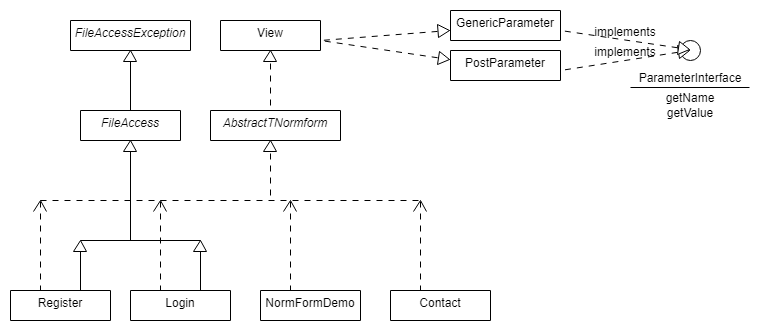
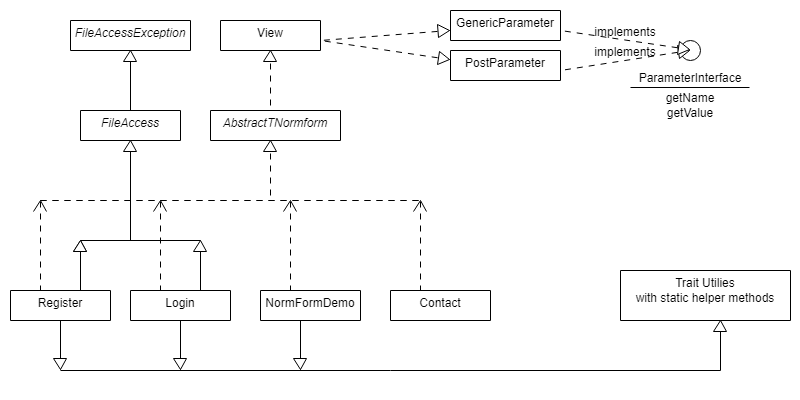
added Utilities to class diagramm

diff --git a/README.md b/README.md
@@ -25,18 +25,32 @@ PHP 7.1 ist die Mindestvoraussetzung, damit die Implentierung lauffähig ist.
 * [PHP-FIG Namenskonventionen (PSR: PHP Standards Recommendations)](https://www.php-fig.org/psr/)
 
 
-Die Übungen, die umzusetzen sind, liegen in src/exercises. 
-Lösungen werden mit require_once aus einem privaten Repository eingebunden.
-Diese Abschnitte sind durch eine eigene Lösung zu ersetzen.
+Die Übungen, die umzusetzen sind, liegen in einem Unterverzeichnis von src/exercises. 
+Für jede Übung gibt es ein eigenes Unterverzeichnis. Nur an den Files in diesem Verzeichnis sind Änderungen vorzunehmen.
+
+Musterlösungen werden mit require aus einem privaten Repository eingebunden.
+Statt diese Files einzubinden ist direkt in den Vorlagenfiles eine eigene Lösung an Hand der TODOs zu erstellen.
 
 Zum Beispiel:  
+    
     ``/*--``
-    ``require_once '<path-to-solution>/index/construct.inc.php';``
+    ``require '<path-to-solution>/index/construct.inc.php';``
     ``//*/``
 
 Durch Ein- und Auskommentieren der Lösung kann sowohl die Funktionalität der Vorlage als auch der Lösung einfach
-demonstriert werden.
-Das Umschalten erfolgt über Linux Shell-Scripten, die im Lösungsrepository liegen und dazu GNU sed nutzen.
+demonstriert werden. Diese Abschnitte können für die Lösung ignoriert oder vollständig gelöscht werden.
+Das Umschalten erfolgt über Linux Shell-Scripten, die im Lösungsrepository liegen und dazu GNU sed nutzen. 
+
+Codeteile die wie folgt auskommentiert sind, dienen dazu die Vorlage ohne PHP-Fehler lauffähig zu machen.
+     
+     ``//##``
+     ``return true;``
+     ``//*/``
+     
+Zum Beispiel wird eine erfolgreiche Authentifizierung vorgetäuscht, damit ein Login auch ohne Filezugriff bereits für
+den Erfolgsfall funktioniert. Diese Codeteile müssen behalten werden, an der richtige Stelle im eigenen Code verwendet
+oder entsprechend angepasst werden, damit sie der Aufgabenstellung entsprechen.
+     
 
 ## Structure of this Repository
 
@@ -48,10 +62,10 @@ Folder | Description
 ``htdocs/css`` | A set of predefined styles to be used with [AbstractNormForm](https://github.com/Digital-Media/normform). Include ``main.css`` to use it.
 ``htdocs/templates`` | HTML templates for the Smarty template engine used in ``/src/*.php``.
 ``htdocs/templates_c`` | Output folder for Smarty's compiled templates.
-``src`` | Classes implemented for *PHPintro*. Including a demo for [NormFormDemo](https://github.com/Digital-Media/normform) and FAdemo for FileAccess. The Trait Utilities provides static helper method to be used in any context.
+``src`` | Classes implemented for *PHPintro*. Including a demo for [NormFormDemo](https://github.com/Digital-Media/normform) and FAdemo for FileAccess. The Trait Utilities provides static helper methods to be used in any context.
 ``src/exercises`` | Classes to be implemented for *PHPintro* exercises.
 ``vendor`` | Third party libraries installed with composer: [TNormform](https://github.com/Digital-Media/normform), [Smarty Templates](http://www.smarty.net/), Javascript Libraries ...
 
 Ein grobes Klassendiagramm für PHPintro (erstellt mit http://www.umlet.com/umletino/
 
-![PHPintro Klassendiagramm](src/KlassenDiagrammPHPintro.png "OnlineShop Klassendiagramm")
+![PHPintro Klassendiagramm](src/KlassenDiagrammPHPintro.png "PHPIntro Klassendiagramm")
